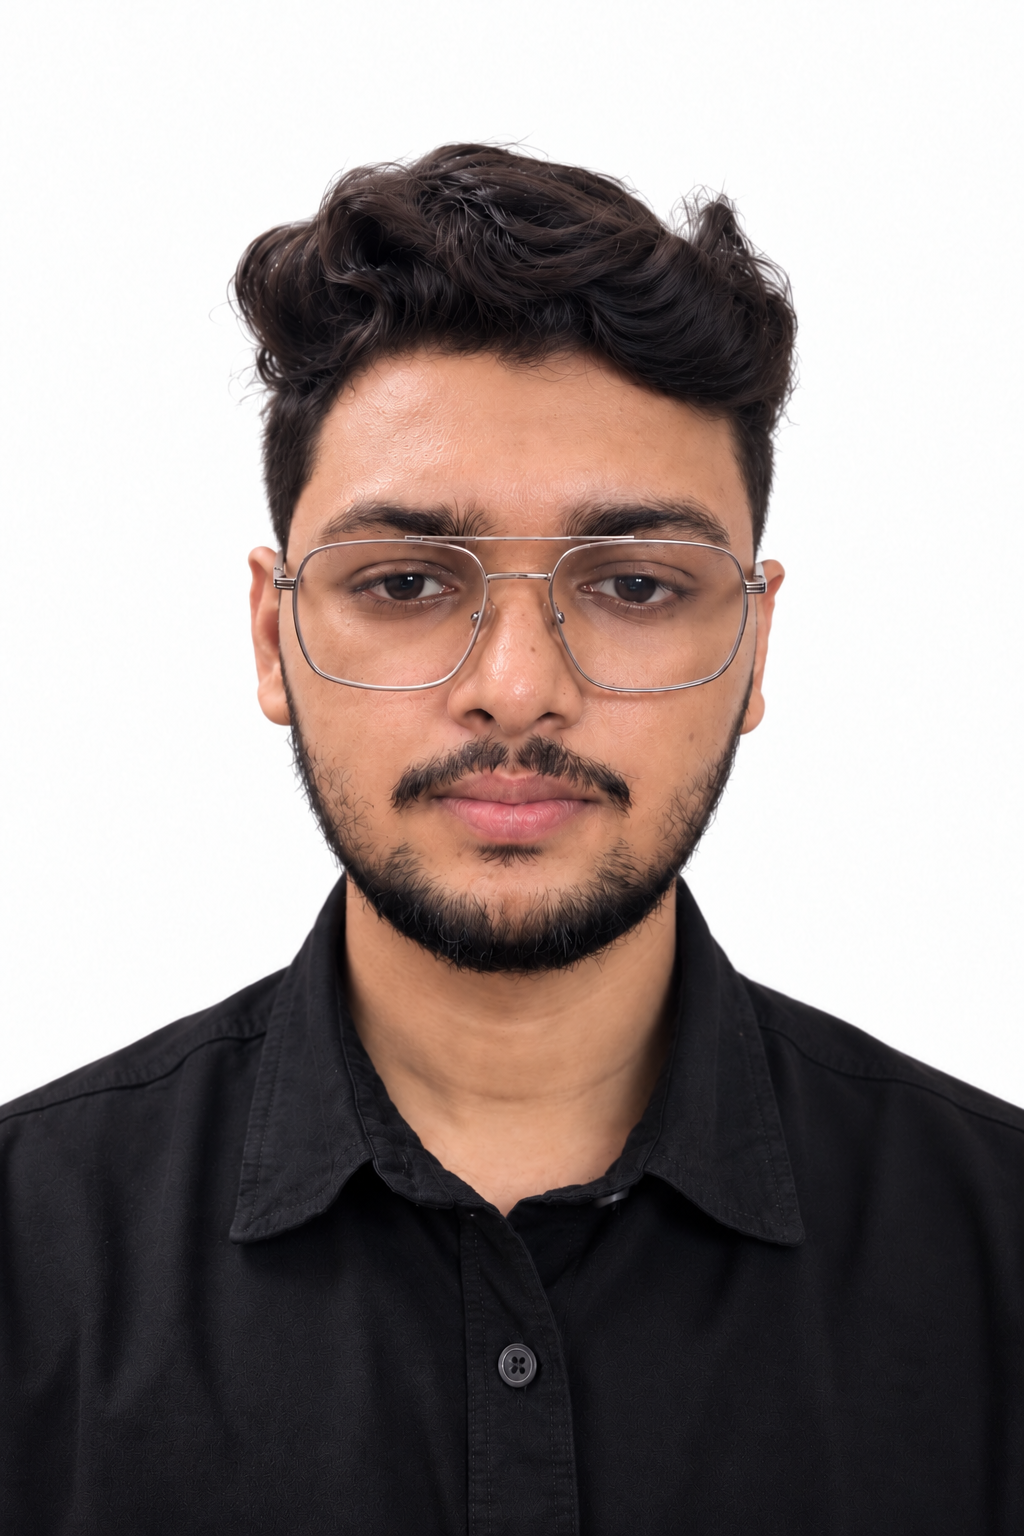
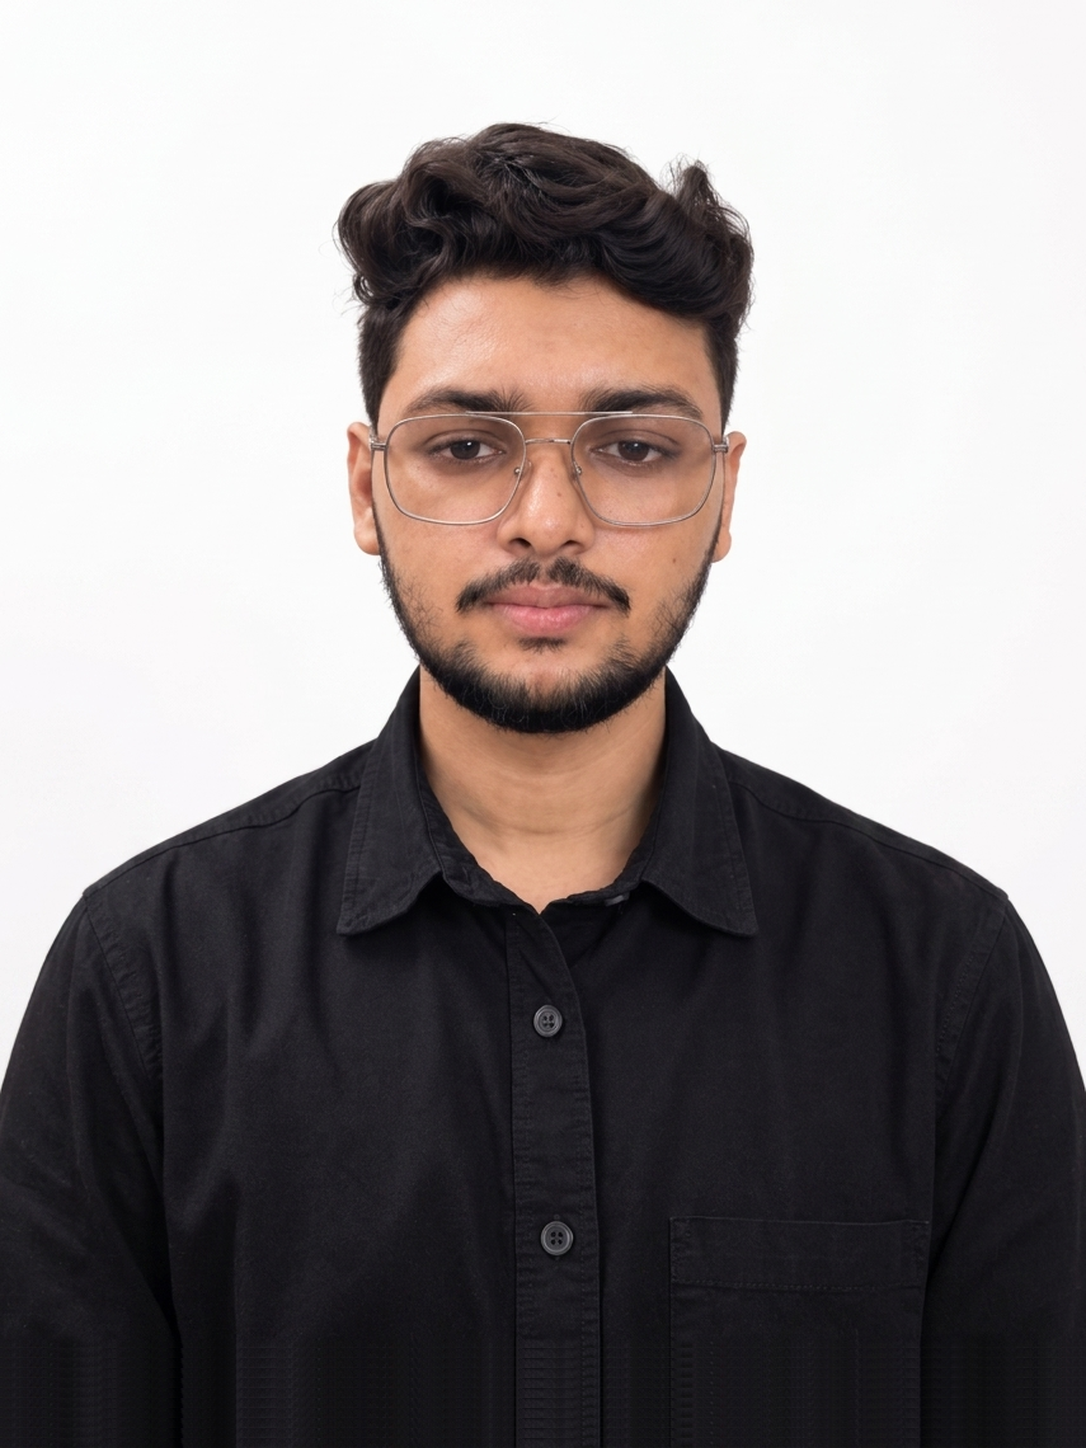
fix(members): correct Kausik Hussain portrait framing to natural upper-body scale

diff --git a/src/data/clubData.ts b/src/data/clubData.ts
@@ -333,7 +333,7 @@ export const CLUB_MEMBERS: ClubMember[] = [
     name: 'Kausik Hussain',
     designation: 'SECRETARY · QUIZ CLUB',
     tier: 'secretary',
-    image: '/assets/images/Members/Kausik Hussain 2.png',
+    image: '/assets/images/Members/Kausik Hussain 2.png?v=2',
     bio: 'Chief student executive spearheading tournament architecture, collegiate syndicate representation, and inter-institutional championship coordination.'
   },
 
@@ -477,7 +477,7 @@ export const TEAM_PROFILES: TeamProfile[] = [
     title: 'Chief Student Executive',
     specialty: ['Tournament Architecture', 'Syndicate Direction', 'Arena Operations'],
     bio: 'Chief student executive spearheading tournament architecture, collegiate syndicate representation, and inter-institutional championship coordination.',
-    image: '/assets/images/Members/Kausik Hussain 2.png',
+    image: '/assets/images/Members/Kausik Hussain 2.png?v=2',
     socials: {
       email: 'quizclub@silicon.ac.in'
     }

diff --git a/src/components/TeamSection.tsx b/src/components/TeamSection.tsx
@@ -710,7 +710,7 @@ export const TeamSection: React.FC = () => {
           width: 100%;
           height: 100%;
           object-fit: cover;
-          object-position: center 12% !important;
+          object-position: center 10% !important;
           transition: transform 0.5s ease;
         }
         .leadership-card:hover {
